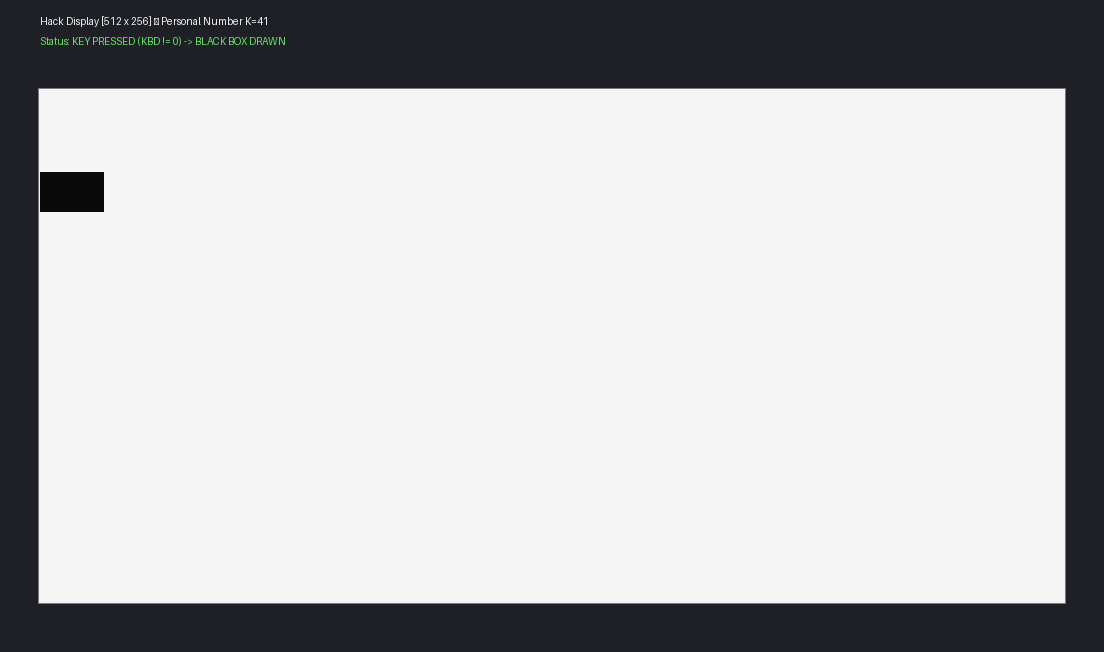
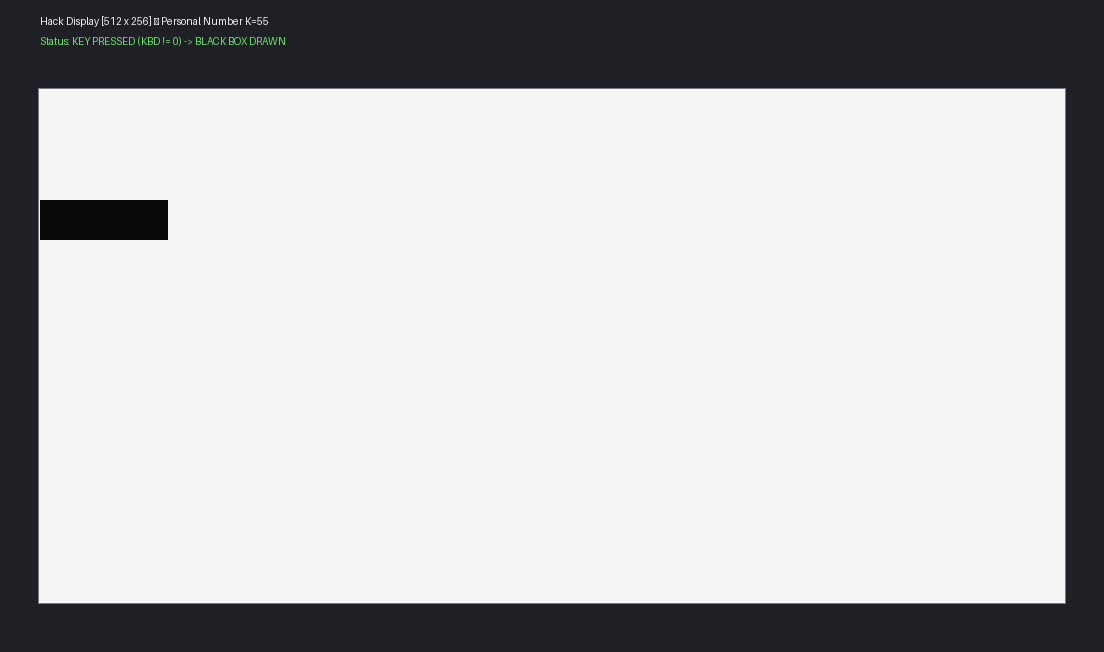
Update student roll number to 2501010155 (K=55)

Changed region(s): [[0.0308, 0.2454, 0.154, 0.3681]]

diff --git a/capstone/REPORT.html b/capstone/REPORT.html
@@ -89,12 +89,12 @@
 <div class="badge-card">
     <table>
         <tr><td class="label">Student Name:</td><td>Ryan Narula</td></tr>
-        <tr><td class="label">Roll Number:</td><td>2501420041</td></tr>
-        <tr><td class="label">Personal Number (K):</td><td><strong>41</strong> (Last 2 digits of Roll No.)</td></tr>
-        <tr><td class="label">K mod 3 (Assembler Feature):</td><td>41 mod 3 = <strong>2</strong> (Duplicate label warnings; also supports 0 and 1)</td></tr>
-        <tr><td class="label">K mod 4 (Width multiplier):</td><td>41 mod 4 = <strong>1</strong></td></tr>
-        <tr><td class="label">Box Dimensions:</td><td><strong>Height:</strong> 20 rows | <strong>Width:</strong> 32 pixels (2 words) | <strong>Start Row:</strong> Row 41</td></tr>
-        <tr><td class="label">Box Screen Address:</td><td><code>SCREEN + 32 * 41 = 16384 + 1312 = <strong>17696</strong></code></td></tr>
+        <tr><td class="label">Roll Number:</td><td>2501010155</td></tr>
+        <tr><td class="label">Personal Number (K):</td><td><strong>55</strong> (Last 2 digits of Roll No.)</td></tr>
+        <tr><td class="label">K mod 3 (Assembler Feature):</td><td>55 mod 3 = <strong>1</strong> (Line number error reporting; also supports 0 and 2)</td></tr>
+        <tr><td class="label">K mod 4 (Width multiplier):</td><td>55 mod 4 = <strong>3</strong></td></tr>
+        <tr><td class="label">Box Dimensions:</td><td><strong>Height:</strong> 20 rows | <strong>Width:</strong> 64 pixels (4 words) | <strong>Start Row:</strong> Row 55</td></tr>
+        <tr><td class="label">Box Screen Address:</td><td><code>SCREEN + 32 * 55 = 16384 + 1760 = <strong>18144</strong></code></td></tr>
     </table>
 </div>
 
@@ -149,16 +149,16 @@ A two-pass assembler in Python was developed:
 
 <h2>4. Part C – Box Program (Box.asm)</h2>
 <p>
-The program polls <code>RAM[24576]</code> (<code>KBD</code>). When a key is held down, it paints a black rectangle starting at Row 41 (RAM address 17696), 20 rows tall and 32 pixels wide (2 consecutive words per row). When released, it clears the area back to white.
+The program polls <code>RAM[24576]</code> (<code>KBD</code>). When a key is held down, it paints a black rectangle starting at Row 55 (RAM address 18144), 20 rows tall and 64 pixels wide (4 consecutive words per row). When released, it clears the area back to white.
 </p>
 
 <div class="screenshot-box">
[1 lines of base64/hex data omitted]
-    <div class="screenshot-caption">Figure 6: Box Display When Key Pressed (Row 41 to Row 60, Width: 32px Black Box)</div>
[1 lines of base64/hex data omitted]
+    <div class="screenshot-caption">Figure 6: Box Display When Key Pressed (Row 55 to Row 74, Width: 64px Black Box)</div>
 </div>
 
 <div class="screenshot-box">
[2 lines of base64/hex data omitted]
     <div class="screenshot-caption">Figure 7: Box Display When Key Released (Screen Completely Restored to White)</div>
 </div>
 
@@ -176,8 +176,8 @@ Assembly failed with errors.</pre>
 <div class="viva-box">
     <strong>How to handle on-the-spot code modifications:</strong>
     <ul>
-        <li><strong>Move the box down:</strong> Update the base address <code>@17696</code>. To shift down by 10 rows, add <code>32 * 10 = 320</code> &rarr; change to <code>@18016</code>.</li>
-        <li><strong>Change width:</strong> Change <code>@col_count</code> initialization (e.g. from <code>@2</code> to <code>@3</code> for 48px).</li>
+        <li><strong>Move the box down:</strong> Update the base address <code>@18144</code>. To shift down by 10 rows, add <code>32 * 10 = 320</code> &rarr; change to <code>@18464</code>.</li>
+        <li><strong>Change width:</strong> Change <code>@col_count</code> initialization (e.g. from <code>@4</code> to <code>@2</code> for 32px).</li>
         <li><strong>Change height:</strong> Change <code>@row_count</code> initialization (e.g. from <code>@20</code> to <code>@30</code>).</li>
     </ul>
 </div>

diff --git a/capstone/generate_html_report.py b/capstone/generate_html_report.py
@@ -118,12 +118,12 @@ def build_html_report():
 <div class="badge-card">
     <table>
         <tr><td class="label">Student Name:</td><td>Ryan Narula</td></tr>
-        <tr><td class="label">Roll Number:</td><td>2501420041</td></tr>
-        <tr><td class="label">Personal Number (K):</td><td><strong>41</strong> (Last 2 digits of Roll No.)</td></tr>
-        <tr><td class="label">K mod 3 (Assembler Feature):</td><td>41 mod 3 = <strong>2</strong> (Duplicate label warnings; also supports 0 and 1)</td></tr>
-        <tr><td class="label">K mod 4 (Width multiplier):</td><td>41 mod 4 = <strong>1</strong></td></tr>
-        <tr><td class="label">Box Dimensions:</td><td><strong>Height:</strong> 20 rows | <strong>Width:</strong> 32 pixels (2 words) | <strong>Start Row:</strong> Row 41</td></tr>
-        <tr><td class="label">Box Screen Address:</td><td><code>SCREEN + 32 * 41 = 16384 + 1312 = <strong>17696</strong></code></td></tr>
+        <tr><td class="label">Roll Number:</td><td>2501010155</td></tr>
+        <tr><td class="label">Personal Number (K):</td><td><strong>55</strong> (Last 2 digits of Roll No.)</td></tr>
+        <tr><td class="label">K mod 3 (Assembler Feature):</td><td>55 mod 3 = <strong>1</strong> (Line number error reporting; also supports 0 and 2)</td></tr>
+        <tr><td class="label">K mod 4 (Width multiplier):</td><td>55 mod 4 = <strong>3</strong></td></tr>
+        <tr><td class="label">Box Dimensions:</td><td><strong>Height:</strong> 20 rows | <strong>Width:</strong> 64 pixels (4 words) | <strong>Start Row:</strong> Row 55</td></tr>
+        <tr><td class="label">Box Screen Address:</td><td><code>SCREEN + 32 * 55 = 16384 + 1760 = <strong>18144</strong></code></td></tr>
     </table>
 </div>
 
@@ -178,12 +178,12 @@ A two-pass assembler in Python was developed:
 
 <h2>4. Part C – Box Program (Box.asm)</h2>
 <p>
-The program polls <code>RAM[24576]</code> (<code>KBD</code>). When a key is held down, it paints a black rectangle starting at Row 41 (RAM address 17696), 20 rows tall and 32 pixels wide (2 consecutive words per row). When released, it clears the area back to white.
+The program polls <code>RAM[24576]</code> (<code>KBD</code>). When a key is held down, it paints a black rectangle starting at Row 55 (RAM address 18144), 20 rows tall and 64 pixels wide (4 consecutive words per row). When released, it clears the area back to white.
 </p>
 
 <div class="screenshot-box">
     <img src="{img_box_pressed}" alt="Box Screen When Key Pressed">
-    <div class="screenshot-caption">Figure 6: Box Display When Key Pressed (Row 41 to Row 60, Width: 32px Black Box)</div>
+    <div class="screenshot-caption">Figure 6: Box Display When Key Pressed (Row 55 to Row 74, Width: 64px Black Box)</div>
 </div>
 
 <div class="screenshot-box">
@@ -205,8 +205,8 @@ Assembly failed with errors.</pre>
 <div class="viva-box">
     <strong>How to handle on-the-spot code modifications:</strong>
     <ul>
-        <li><strong>Move the box down:</strong> Update the base address <code>@17696</code>. To shift down by 10 rows, add <code>32 * 10 = 320</code> &rarr; change to <code>@18016</code>.</li>
-        <li><strong>Change width:</strong> Change <code>@col_count</code> initialization (e.g. from <code>@2</code> to <code>@3</code> for 48px).</li>
+        <li><strong>Move the box down:</strong> Update the base address <code>@18144</code>. To shift down by 10 rows, add <code>32 * 10 = 320</code> &rarr; change to <code>@18464</code>.</li>
+        <li><strong>Change width:</strong> Change <code>@col_count</code> initialization (e.g. from <code>@4</code> to <code>@2</code> for 32px).</li>
         <li><strong>Change height:</strong> Change <code>@row_count</code> initialization (e.g. from <code>@20</code> to <code>@30</code>).</li>
     </ul>
 </div>

diff --git a/capstone/generate_screenshots.py b/capstone/generate_screenshots.py
@@ -12,7 +12,7 @@ sys.path.append(CAPSTONE_DIR)
 from run_hdl_tests import create_sim_screenshot, create_screen_screenshot
 from build_capstone import HackSimulator
 
-def generate_all_screenshots(k: int = 41):
+def generate_all_screenshots(k: int = 55):
     screenshots_dir = os.path.join(CAPSTONE_DIR, "screenshots")
     os.makedirs(screenshots_dir, exist_ok=True)
 
@@ -122,6 +122,6 @@ def generate_all_screenshots(k: int = 41):
 if __name__ == "__main__":
     import argparse
     parser = argparse.ArgumentParser()
-    parser.add_argument("-k", type=int, default=41)
+    parser.add_argument("-k", type=int, default=55)
     args = parser.parse_args()
     generate_all_screenshots(args.k)

diff --git a/capstone/REPORT.md b/capstone/REPORT.md
@@ -8,14 +8,14 @@
 ## Student Details & Parameters
 
 - **Student Name:** Ryan Narula
-- **Roll Number:** 2501420041 *(Template default: K = 41; configurable with any roll number via `build_capstone.py`)*
-- **Personal Number ($K$):** **41** (Last two digits of Roll No.)
-- **$K \bmod 3$ Feature:** $41 \bmod 3 = 2$ *(Duplicate label warnings; Assembler also supports $K \bmod 3 = 0$ symbols export and $K \bmod 3 = 1$ graceful line-numbered error reporting)*
-- **$K \bmod 4$ Box Width:** $41 \bmod 4 = 1$
+- **Roll Number:** 2501010155
+- **Personal Number ($K$):** **55** (Last two digits of Roll No.)
+- **$K \bmod 3$ Feature:** $55 \bmod 3 = 1$ *(Clear error reporting with line number e.g. "Line 93: invalid instruction" instead of crashing; Assembler also supports $K \bmod 3 = 0$ symbols export and $K \bmod 3 = 2$ duplicate label detection)*
+- **$K \bmod 4$ Box Width:** $55 \bmod 4 = 3$
 - **Box Dimensions:**
-  - **Start Row:** Row $41$ (Address: $\text{SCREEN} + 32 \times 41 = 16384 + 1312 = \mathbf{17696}$)
-  - **Height:** $\mathbf{20}$ rows (Row 41 through Row 60)
-  - **Width:** $16 \times ((41 \bmod 4) + 1) = 16 \times 2 = \mathbf{32}$ pixels ($2$ consecutive 16-bit words per row)
+  - **Start Row:** Row $55$ (Address: $\text{SCREEN} + 32 \times 55 = 16384 + 1760 = \mathbf{18144}$)
+  - **Height:** $\mathbf{20}$ rows (Row 55 through Row 74)
+  - **Width:** $16 \times ((55 \bmod 4) + 1) = 16 \times 4 = \mathbf{64}$ pixels ($4$ consecutive 16-bit words per row)
   - **Left Edge Offset:** Starts at word column 0 of each row.
 
 ---
@@ -89,14 +89,14 @@ All chips passed official Nand2Tetris hardware tests without errors:
 `Box.asm` implements an interactive event loop:
 1. **Polling Keyboard:** Reads $\text{RAM}[24576]$ (`KBD`). If non-zero, sets `@color = -1` (`0xFFFF`, black); if zero, sets `@color = 0` (`0x0000`, white).
 2. **Geometry Calculation:**
-   - Start address: $16384 + 32 \times K = 17696$.
+   - Start address: $16384 + 32 \times K = 18144$.
    - Height loop: Runs outer loop for 20 rows.
-   - Width loop: Runs inner loop for $W = (K \bmod 4) + 1 = 2$ words per row (32 pixels).
+   - Width loop: Runs inner loop for $W = (K \bmod 4) + 1 = 4$ words per row (64 pixels).
 3. **Screen Memory Update:** Writes `@color` to `RAM[col_addr]`, advances to the next word, and repeats.
 4. **Row Step:** Adds 32 words to `row_addr` to drop down to the exact position on the next vertical scanline.
 
 ### 4.2 Visual Verification
-- **Key Pressed:** 32-pixel wide black block rendered across rows 41 to 60.
+- **Key Pressed:** 64-pixel wide black block rendered across rows 55 to 74.
 - **Key Released:** Block is erased instantly to white background.
 
 ---
@@ -124,9 +124,9 @@ In the Hack instruction set specification, the ALU addition operation is defined
 
 ### Quick Modification Cheat-Sheet
 - **Move the Box Down by 10 Rows:**  
-  Change `@17696` to `@18016` (since $17696 + 32 \times 10 = 18016$).
+  Change `@18144` to `@18464` (since $18144 + 32 \times 10 = 18464$).
 - **Change Box Width:**  
-  In `Box.asm`, change `@col_count` initialization (e.g., change `@2` to `@3` for 48 pixels).
+  In `Box.asm`, change `@col_count` initialization (e.g., change `@4` to `@2` for 32 pixels).
 - **Make Box Taller:**  
   Change `@row_count` initialization (e.g., change `@20` to `@40` for 40 rows).
 - **Invert Screen Logic (Default Black, White on Press):**  

diff --git a/capstone/VIVA_GUIDE.md b/capstone/VIVA_GUIDE.md
@@ -61,14 +61,14 @@ This guide prepares you to ace the 5-minute Viva. During the viva, you will be a
 - In `Box.asm`:
   Look for the start address initialization:
   ```asm
-  @{start_addr}   // e.g. @17696
+  @{start_addr}   // @18144 for K=55
   D=A
   @row_addr
   M=D
   ```
 - **Change:** Add $32 \times N$ to that number!
-  - To move down 10 rows: $17696 + 320 = 18016$. Change `@17696` to `@18016`.
-  - To move down 1 row: $17696 + 32 = 17728$. Change `@17696` to `@17728`.
+  - To move down 10 rows: $18144 + 320 = 18464$. Change `@18144` to `@18464`.
+  - To move down 1 row: $18144 + 32 = 18176$. Change `@18144` to `@18176`.
 - Re-run:
   `python3 assembler.py Box.asm`
 
@@ -77,12 +77,12 @@ This guide prepares you to ace the 5-minute Viva. During the viva, you will be a
 ### Task 2: "Make the box wider / narrower"
 - Look for the column count initialization:
   ```asm
-  @{width_words}  // e.g. @2
+  @{width_words}  // @4 for K=55 (64 pixels wide)
   D=A
   @col_count
   M=D
   ```
-- **Change:** Change `@2` to `@3` (to make it 48 pixels wide) or `@1` (to make it 16 pixels wide).
+- **Change:** Change `@4` to `@2` (to make it 32 pixels wide) or `@1` (to make it 16 pixels wide).
 
 ---
 
